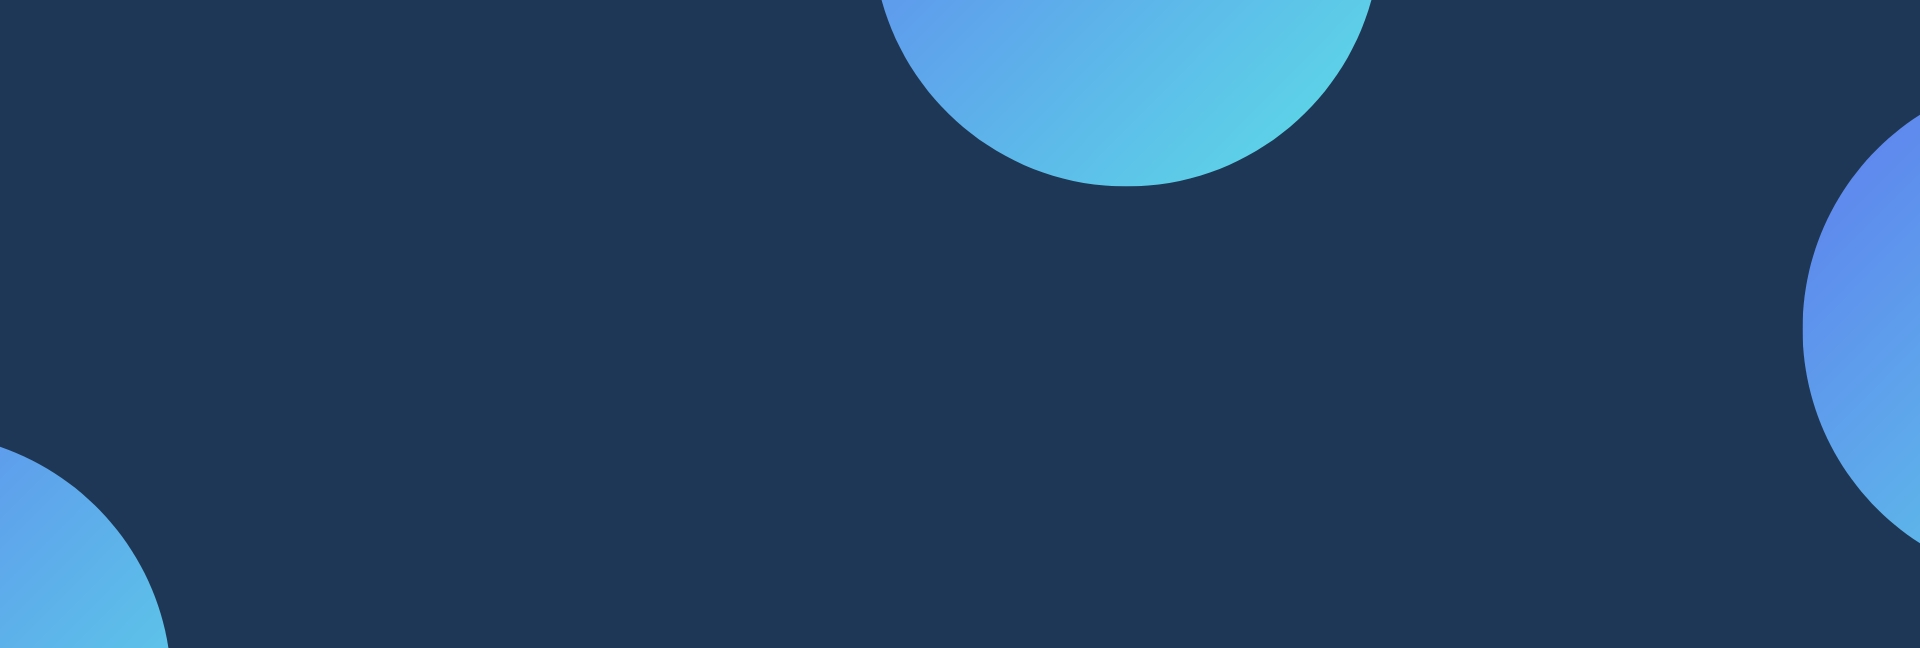
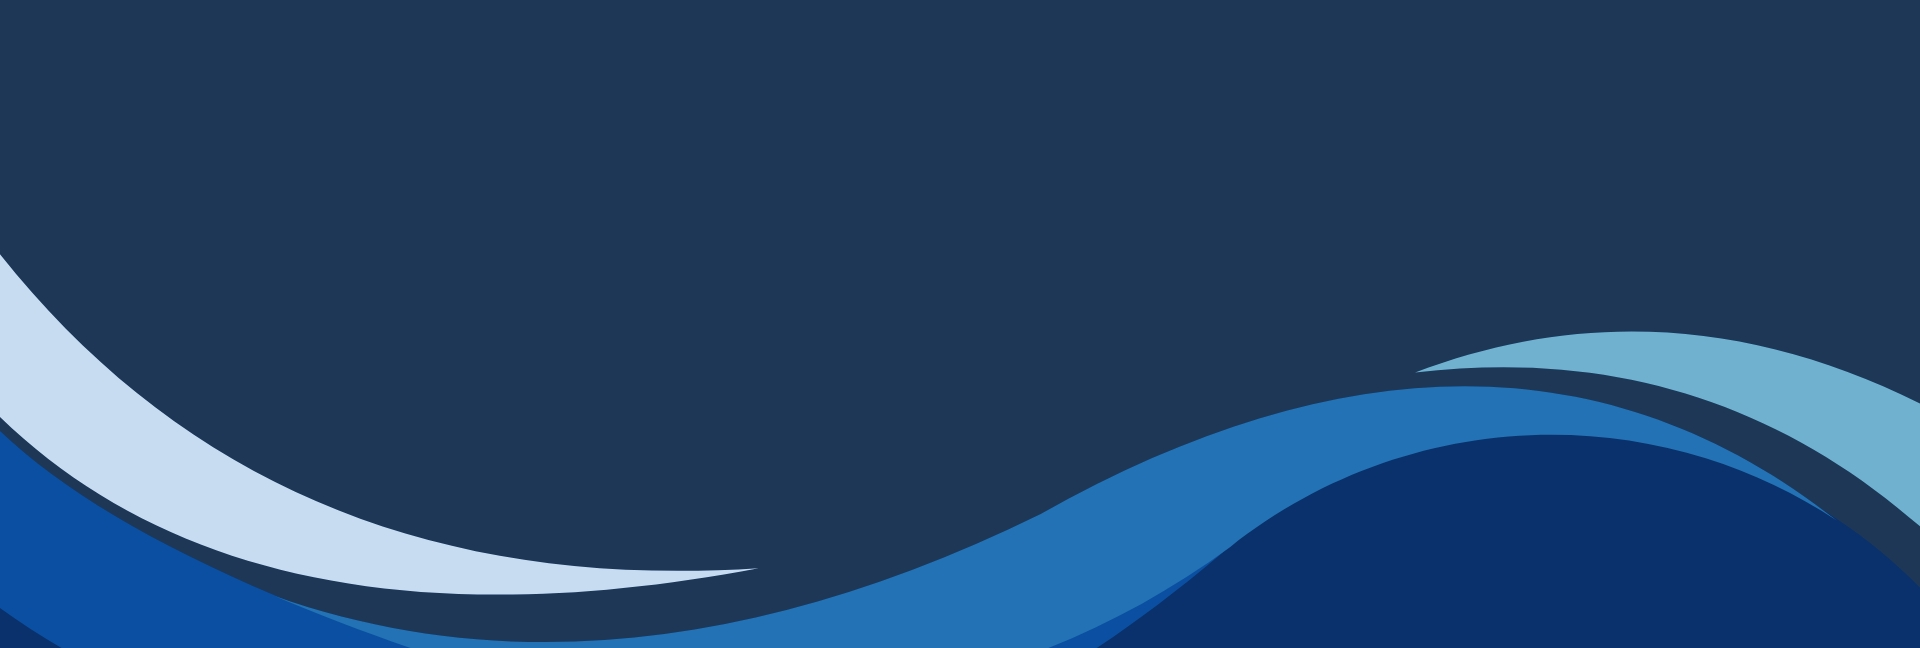
decorate and change some color

Changed region(s): [[0.0, 0.1852, 1.0, 1.0], [0.4375, 0.0, 0.7188, 0.3086]]

diff --git a/client/src/pages/form/[formId].tsx b/client/src/pages/form/[formId].tsx
@@ -58,14 +58,14 @@ function FormIdPage() {
 
       const pdfDoc = await PDFDocument.load(existingPdfBytes);
       const fontUrl =
-        "https://raw.githubusercontent.com/PacharaponK/PSU_OpenAPI_Contest/main/uploads/THSarabunNew.ttf";
+        "https://script-app.github.io/font/THSarabunNew.ttf";
       const fontBytes = await fetch(fontUrl).then((res) => res.arrayBuffer());
 
       pdfDoc.registerFontkit(fontkit);
       const customFont = await pdfDoc.embedFont(fontBytes);
 
       const pages = pdfDoc.getPages();
-      const modifyPage = pages[form.pageModified]; // config
+      const modifyPage = pages[form.modifiedPage]; // config
 
       form.modifiedConfig?.map((config: any) => {
         if (config.type == "drawText") {
@@ -101,58 +101,6 @@ function FormIdPage() {
         posX += 15.96; //config
       }
 
-      // modifyPage.drawCircle({
-      //     x: 167.56,
-      //     y: 515.96,
-      //     size: 15,
-      //     opacity: 0,
-      //     borderOpacity: 1,
-      //     borderColor: rgb(0, 0, 0),
-      // })
-      // modifyPage.drawText(studentDetail.studNameThai + " " + studentDetail.studSnameThai, {
-      //     x: 237.56,
-      //     y: 515.96,
-      //     size: 15,
-      //     font: customFont,
-      //     color: rgb(0, 0, 0),
-      // }); //config
-
-      // //91.25, 454.375
-
-      // modifyPage.drawText(studentDetail.deptNameThai, {
-      //     x: 91.25,
-      //     y: 460.375,
-      //     size: 15,
-      //     font: customFont,
-      //     color: rgb(0, 0, 0),
-      // }); //config
-
-      // modifyPage.drawText(studentDetail.majorNameThai, {
-      //     x: 280.5,
-      //     y: 460.375,
-      //     size: 15,
-      //     font: customFont,
-      //     color: rgb(0, 0, 0),
-      // }); //config
-
-      // modifyPage.drawText(studentDetail.yearStatus, {
-      //     x: 463,
-      //     y: 460.375,
-      //     size: 15,
-      //     font: customFont,
-      //     color: rgb(0, 0, 0),
-      // }); //config
-
-      // //411.25, 188.125
-
-      // modifyPage.drawText(studentDetail.phone, {
-      //     x: 390.25,
-      //     y: 230.125,
-      //     size: 15,
-      //     font: customFont,
-      //     color: rgb(0, 0, 0),
-      // }); //config
-
       const pdfBytes = await pdfDoc.save();
       const blob = new Blob([pdfBytes], { type: "application/pdf" });
       const modifiedPdfUrl = URL.createObjectURL(blob);
@@ -172,6 +120,9 @@ function FormIdPage() {
     fectStudentDetail();
   }, [router.isReady, auth.user?.access_token]);
 
+  console.log(studentDetail);
+  
+
   return (
     <div>
       <Navbar />
@@ -179,7 +130,7 @@ function FormIdPage() {
         <h1 className="pl-4 font-bold text-3xl">{form?.name}</h1>
         {form?.picDetailURL && form.picDetailURL.length > 0 && (
           <div className="size-[50vh] flex justify-center items-center">
-            <Carousel className="h-screen" indicators={false}>
+            <Carousel className="h-1/2" indicators={false}>
               {form.picDetailURL.map((url, index) => (
                 <img
                   key={index}
@@ -210,13 +161,6 @@ function FormIdPage() {
           setOpenModal={setOpenModal}
         />
       </div>
-      {/* <iframe
-        title="pdfViewer"
-        src={pdfUrl}
-        width="100%"
-        height="500px"
-        frameBorder="0"
-      ></iframe> */}
       <div>
         <Footer />
       </div>

diff --git a/client/src/components/Navbar.tsx b/client/src/components/Navbar.tsx
@@ -41,14 +41,14 @@ function Navbar() {
                 className="hidden items-center justify-center rounded-xl bg-white px-3 py-2 text-sm font-semibold text-gray-900 shadow-sm ring-1 ring-inset ring-gray-300 transition-all duration-150 hover:bg-gray-50 sm:inline-flex"
                 href="/profile"
               >
-                Profile
+                โปรไฟล์
               </Link>
               <button
                 type="button"
                 onClick={() => Logout()}
                 className="inline-flex items-center justify-center rounded-xl bg-red-600 px-3 py-2 text-sm font-semibold text-white shadow-sm transition-all duration-150 hover:bg-red-500 focus-visible:outline focus-visible:outline-2 focus-visible:outline-offset-2 focus-visible:outline-red-600"
               >
-                Logout
+                ออกจากระบบ
               </button>
               <div className="h-10 w-10 relative">
                 {studentImage && studentImage.pictureBase64 && (
@@ -89,14 +89,14 @@ function Navbar() {
                 className="hidden items-center justify-center rounded-xl bg-white px-3 py-2 text-sm font-semibold text-gray-900 shadow-sm ring-1 ring-inset ring-gray-300 transition-all duration-150 hover:bg-gray-50 sm:inline-flex"
                 href="/login"
               >
-                Explore Form
+                สำรวจฟอร์ม
               </a>
               <button
                 type="button"
                 onClick={() => auth.signinRedirect()}
                 className="inline-flex items-center justify-center rounded-xl bg-blue-600 px-3 py-2 text-sm font-semibold text-white shadow-sm transition-all duration-150 hover:bg-blue-500 focus-visible:outline focus-visible:outline-2 focus-visible:outline-offset-2 focus-visible:outline-blue-600"
               >
-                Login
+                เข้าสู่ระบบ
               </button>
             </div>
           </div>

diff --git a/client/src/pages/form.tsx b/client/src/pages/form.tsx
@@ -50,14 +50,14 @@ function HomePage() {
                 <Navbar />
             </div>
             {Landing()}
-            <div className="flex background-image h-full lg:px-10 lg:pb-10 items-start">
+            <div className="flex bg-white h-full lg:px-10 lg:pb-10 items-start">
                 <div className="flex flex-col">
                     {(categoryWithForms) ?
                         categoryWithForms.map((category) => <>
                             <div className="space-y-7">
                                 <div className="pt-10 space-x-3 flex flex-row justify-between">
                                     <div className="flex flex-row space-x-3">
-                                    <div className="bg-cyan-600 w-[7vw] rounded-full max-lg:hidden"></div>
+                                    <div className="bg-[#2372b5] w-[7vw] rounded-full max-lg:hidden"></div>
                                         <svg
                                             width="32"
                                             height="32"
@@ -74,7 +74,7 @@ function HomePage() {
                                         </svg>
                                         <span className="text-2xl font-semibold">{category.name}</span>
                                     </div>
-                                    <div className="bg-cyan-600 w-[65vw] rounded-full right"></div>
+                                    <div className="bg-[#2372b5] w-[65vw] rounded-full right"></div>
                                 </div>
                                 {category.forms.map((form) =>
                                     <>

diff --git a/client/src/pages/profile.tsx b/client/src/pages/profile.tsx
@@ -36,7 +36,7 @@ function Profile() {
     <div>
       <div className="flex flex-col justify-center items-center min-h-screen background-image">
         <Navbar />
-        <div className="flex flex-col justify-center items-center">
+        <div className="flex flex-col justify-center items-center w-7/12 my-24 bg-white hover:border-[#95c0f8] border-[#ceddf0] border-4 p-10 rounded-3xl">
           <h1 className="text-3xl font-bold mb-4">ข้อมูลส่วนตัว</h1>
           <div className="flex flex-row">
             <div className="mr-14">

diff --git a/client/src/styles/globals.css b/client/src/styles/globals.css
@@ -17,7 +17,7 @@
 
 .background-image {
   background-image: url("/background.jpg");
-  background-repeat: no-repeat;
-  background-position: right;
+  background-repeat: repeat;
+  background-position: center;
   background-size: cover;
 }
